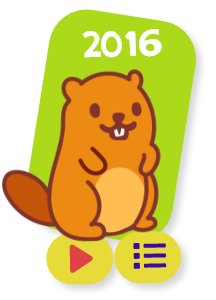
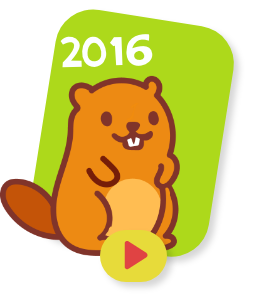
home screen selesai

diff --git a/src/tabs/Home.js b/src/tabs/Home.js
@@ -16,20 +16,28 @@ const DATA = [
     {
         id: '1',
         title: '2016',
-        image: <Image resizeMode= 'contain' source={require('../assets/picture/home/2016.png')}/>
+        image: <Image source={require('../assets/picture/home/2016.png')}/>
     },
     {
         id: '2',
         title: '2017',
         image: <Image source={require('../assets/picture/home/2017.png')}/>
+    },
+    {
+        id: '3',
+        title: '2018',
+        image: <Image source={require('../assets/picture/home/2018.png')}/>
+    },
+    {
+        id: '4',
+        title: '2019',
+        image: <Image source={require('../assets/picture/home/2019.png')}/>
     }
 ];
 
 function Soal({title}){
     return(
-        <View>
-            <Text>{title}</Text>
-        </View>
+        <TouchableOpacity>{title}</TouchableOpacity>
     );
 }
 
@@ -59,41 +67,41 @@ function Home({ navigation }) {
             <ImageBackground
                 source={require('../assets/picture/backgrounds/primary.png')}
                 style={styles.background}>
-                <View style={styles.content}>
-                    <View style={styles.character}>
-                        <UserCharacter/>
-                    </View>
-                    <View style={styles.prop}>
-                        <PilihSoal/>
-                    </View>
-                    <View>
-                        <ScrollView contentContainerStyle={styles.contentContainer}>
+                <ScrollView
+                    style={styles.contentContainer}>
+                    <View style={styles.content}>
+                        <View style={styles.character}>
+                            <UserCharacter/>
+                        </View>
+                        <View style={styles.prop}>
+                            <PilihSoal/>
+                        </View>
+                        <View style={styles.pilihan_soal}>
                             <FlatList
                                 horizontal
                                 data={DATA}
                                 renderItem={({ item }) => <Soal title={item.image}/>}
                                 keyExtractor={item => item.id}
                             />
-                        </ScrollView>
-                        
+                        </View>
                     </View>
-                </View>
-                <Modal
-                    style={styles.modal}
-                    isVisible={isVisible}
-                    backdropColor="white"
-                    backdropOpacity={0.8}
-                    animationIn="zoomInDown"
-                    animationOut="zoomOutUp"
-                    animationInTiming={600}
-                    animationOutTiming={600}
-                    backdropTransitionInTiming={600}
-                    backdropTransitionOutTiming={600}>
-                    <View style={styles.modal_content}>
-                        <Text style={styles.contentTitle}>Modal for settings</Text>
-                        <Button title="Hide modal" onPress={() => toggle(currentIsOpen => !currentIsOpen)} />
-                    </View>
-                </Modal>
+                    <Modal
+                        style={styles.modal}
+                        isVisible={isVisible}
+                        backdropColor="white"
+                        backdropOpacity={0.8}
+                        animationIn="zoomInDown"
+                        animationOut="zoomOutUp"
+                        animationInTiming={600}
+                        animationOutTiming={600}
+                        backdropTransitionInTiming={600}
+                        backdropTransitionOutTiming={600}>
+                        <View style={styles.modal_content}>
+                            <Text style={styles.contentTitle}>Modal for settings</Text>
+                            <Button title="Hide modal" onPress={() => toggle(currentIsOpen => !currentIsOpen)} />
+                        </View>
+                    </Modal>
+                </ScrollView>
             </ImageBackground>
         </View>
     );
@@ -110,6 +118,7 @@ function PilihSoal(){
 function UserCharacter(){
     return(
         <Image
+            style={styles.userCharacter}
             source={require('../assets/picture/profile/original_character.png')}
         />
     )
@@ -186,17 +195,22 @@ const styles = StyleSheet.create({
     prop: {
         alignItems: 'center'
     },
+    userCharacter: {
+        width: 250,
+        height: 250,
+    },
     character: {
         alignSelf: 'baseline', //ini buat si view nya dia jd wrap content
-        marginLeft: -270, //remove this if the image character has been fix
-        marginTop: -130 //remove this if the image character has been fix
+        paddingHorizontal: 50
     },
     contentTitle: {
         fontSize: 20,
         marginBottom: 12,
     },
-    contentContainer: {
-        paddingVertical: 20
+    pilihan_soal: {
+        alignSelf: 'baseline',
+        marginTop: -10,
+        paddingBottom: 35
     }
 });
 

diff --git a/App.js b/App.js
@@ -36,7 +36,6 @@ function App() {
   React.useEffect(()=>{
     SplashScreen.hide();
     backgroundSong.play();
-    console.log('kepanggil');
     DeviceEventEmitter.addListener(
       'ON_HOME_BUTTON_PRESSED',
       () => {
